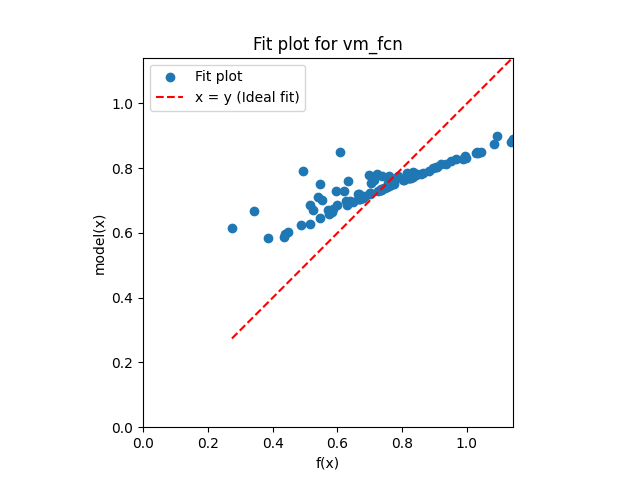
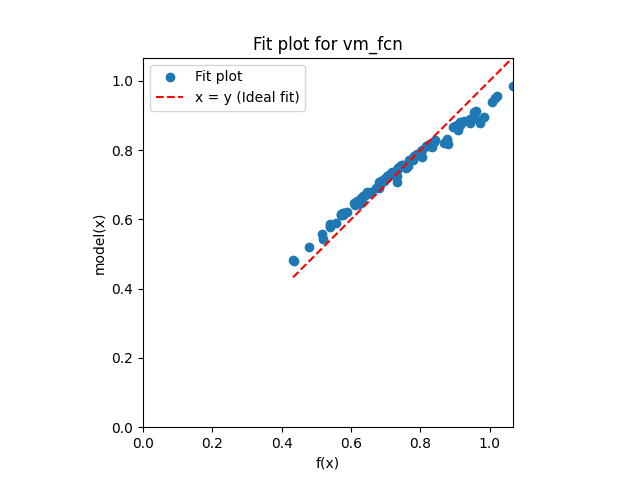
progress in week 6

diff --git a/python/train.py b/python/train.py
@@ -106,11 +106,11 @@ def train_vm():
     
     model = models.vm_model()
     loss = torch.nn.MSELoss()
-    opt = torch.optim.Adam(model.parameters(), lr=3e-4)
-    epochs = 200
+    opt = torch.optim.Adam(model.parameters(), lr=1e-3)
+    epochs = 500
     data_iterator = vm_dummy_data_generator
 
-    losses = train_general(model, loss, opt, epochs, data_iterator)
+    losses = train_general(model, loss, opt, epochs, data_iterator, batch_size=1)
 
     avg_window = 50
     avg_loss = losses[-avg_window:].mean()
@@ -166,6 +166,7 @@ def vm_empirical(x):
     Vm=Vmax*kT
 
     return Vm
+    #return Ts + Vmax
 
     # in some strange case
     #Vm = Vmax*fT*f1T*f2T

diff --git a/python/differentiable_relations.py b/python/differentiable_relations.py
@@ -1,0 +1,20 @@
+"""
+In this file are differentiable functions corresponding to 
+known relationships and formulas that can be used in a 
+differentiable pipeline 
+"""
+
+def Vmax():
+    # TODO: Should it be done?
+    ...
+
+def Q_LE(rs, ra, sc, Rn, QG, roa, cp, es, ea, gamma):
+    return ( sc * (Rn - QG) + roa*cp*(es - ea) / ra ) / (sc + gamma*(1 + rs/ra))
+
+def rs(Q_LE, ra, sc, Rn, QG, roa, cp, es, ea, gamma):
+    return (ra*sc*(Rn - QG) + roa*cp*(es -ea) - ra*Q_LE*(sc + gamma) ) / ( gamma * Q_LE )
+
+def rs(gsCO2, Tf, Ts, Pre, Pre0):
+    rsCO2=1/gsCO2
+    rsH20 = (rsCO2/1.64)*(1e6)
+    return rsH20*(Tf*Pre)/(0.0224*(Ts+273.15)*Pre0)

diff --git a/python/models.py b/python/models.py
@@ -91,4 +91,4 @@ def gsCO2_model():
 def vm_model():
     input_dim = 2
     output_dim = 1
-    return FCN([input_dim, 64, 64, 64, 64, output_dim], torch.nn.ReLU())
+    return FCN([input_dim, 64, 64, 64, output_dim], torch.nn.ReLU())

diff --git a/notes/TODO.md b/notes/TODO.md
@@ -17,13 +17,20 @@ can contact Akash until friday morning, and then not until 08.10
 
 
 # TODO Starting 08.10
-* make a fit plot function, smtg smtg coefficient of determination, smtg smtg R² [TODAY 10.15] [DONE]
-* Setup MATLAB [TODAY 10.15] [DONE]
-* check that I can learn the VCMax empirical function [TODAY 10.15]
-* find where ra is coming from in pb.m [TODAY 10.15] [Probably DONE]
-* write the logic in torch for going from gsco2 to Q_LE and Q_H [TODAY 10.15]
+* make a fit plot function, smtg smtg coefficient of determination, smtg smtg R² [DONE]
+* Setup MATLAB [DONE]
+* check that I can learn the VCMax empirical function
+* find where ra is coming from in pb.m [Probably DONE]
+* write the logic in torch for going from gsco2 to Q_LE and Q_H
 * obtain Q_LE (and later Q_H) dataset [PENDING ON DATA]
 * train a hybrid model of GSCO2, and VCMax (large pipeline) using a loss function including Q_LE like in the evapotranspiration dataset  [PENDING ON DATA]
 * understand how they constrain the hybrid models, see if I can do it as well
 * write report (?) [TODAY 10.15: SETUP REPORT]
 * Explore Bayesian Deep Learning (links saved in semester_project)
+
+# TODO Starting 16.10
+* start the gsCO2 -> Q_LE pipeline, use the Sites in CH data to train an actual gsCO2 model, evaluate it.
+* find predictors for VCMax, check whether we have them already or we need external data, in which case ask Akash. Check if the paper (hourly...) has reference data. Maybe check other papers related to VCMax, come up with a set of predictors to include. [LOOK AT A FEW PAPERS; MAKE A LIST OF PREDICTORS WITH THEIR FULL NAMES; ASK AKASH]
+* Model VMax as a network directly dependant on the above predictors, replace it in pb.py module.
+* train the gsCO2 model for each site sequentially. Train all the data for the same site sequentially, then move to another site, instead of mixing data.
+* [If Time] train the VMax and gsCO2 at the same time, evaluate the whole pipeline
